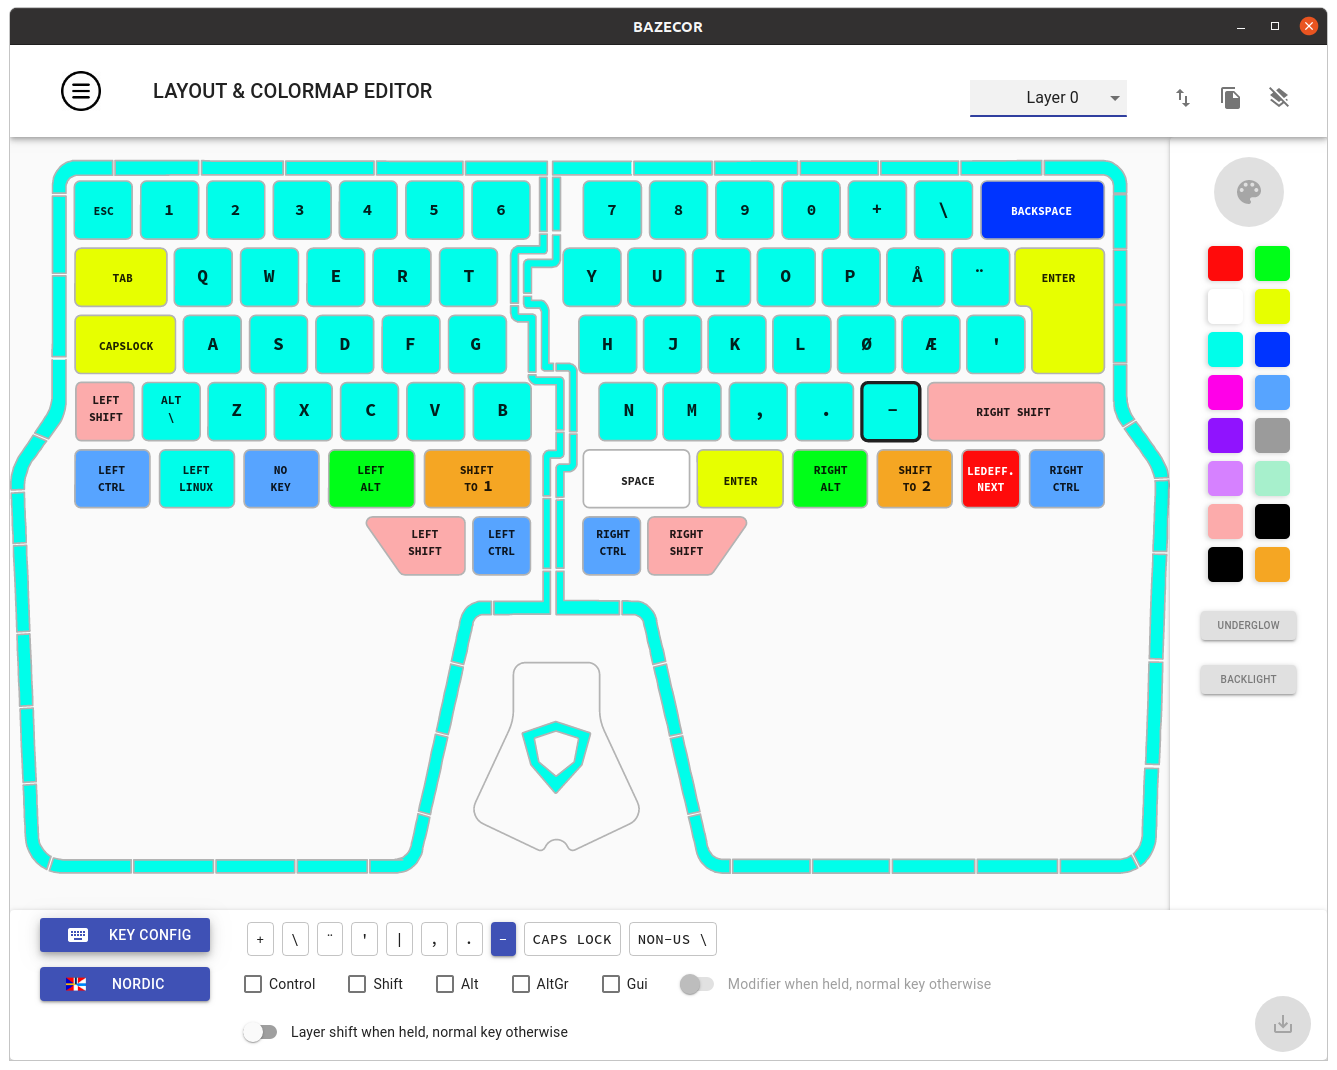
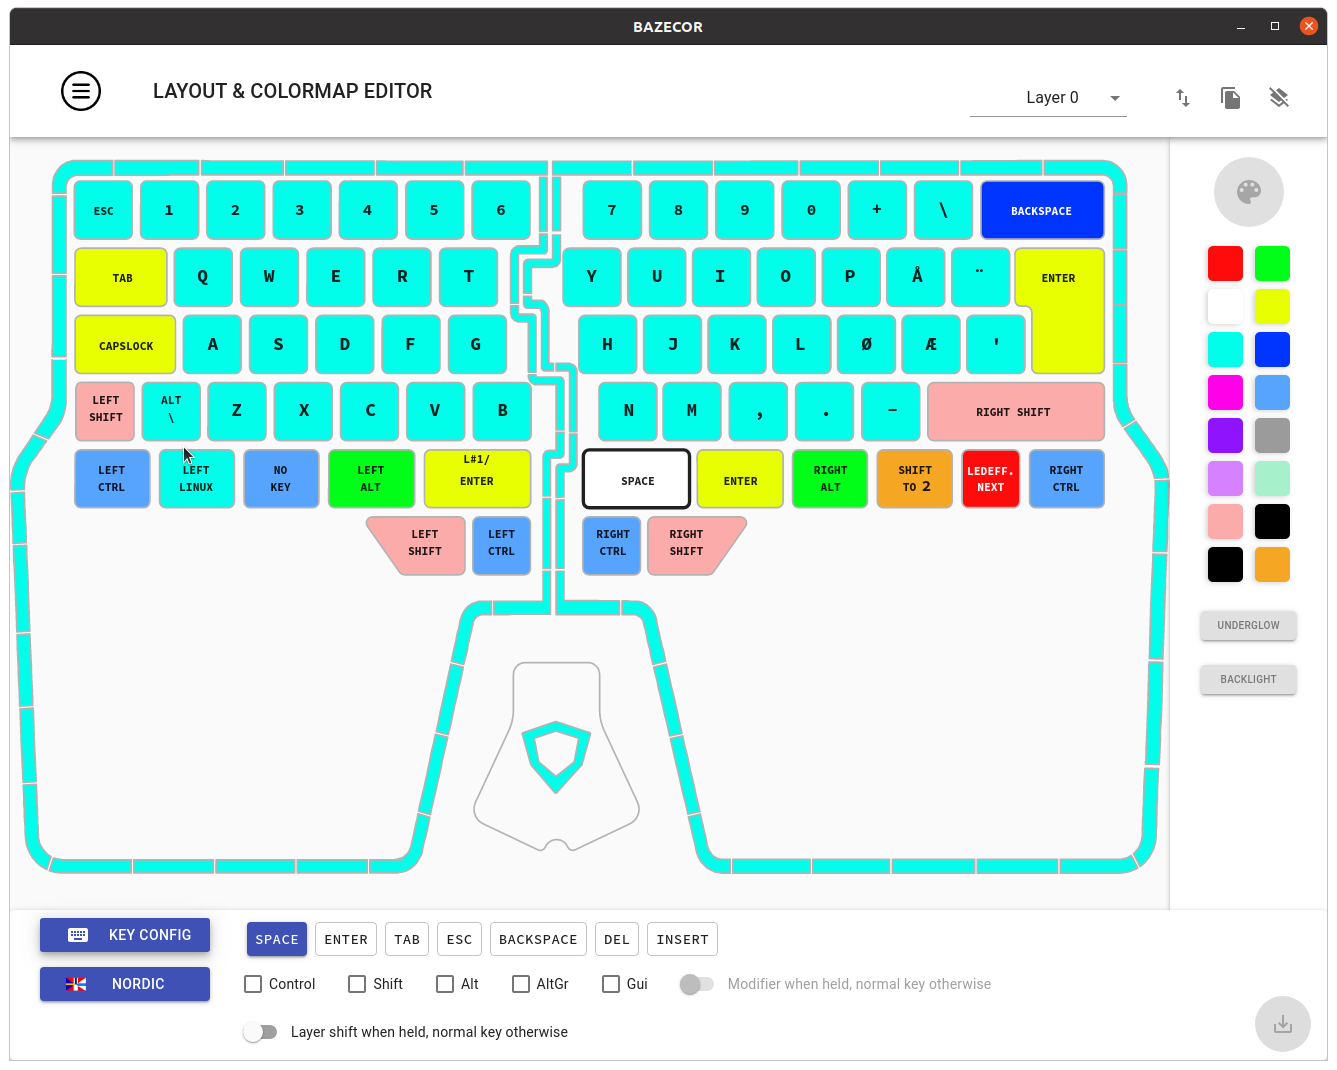
Some additional Dygma Raise tuning reported

diff --git a/_posts/2020-09-28-dygma-raise-reflections-part-1.md b/_posts/2020-09-28-dygma-raise-reflections-part-1.md
@@ -41,7 +41,7 @@ Before understanding how I configured Dygma Raise I need to tell the reader a bi
 
 A screenshot regarding some of these configurations (`.Xkeymap` file):
 
-![My Dygma Raise](/img/2020-09-28-dygma-raise-keyboard-reflections-part-1_img_2.jpg)
+![My Linux .Xkeymap](/img/2020-09-28-dygma-raise-keyboard-reflections-part-1_img_2.jpg)
 
 ### Configuring Dygma Raise: The Bazecor Software
 
@@ -53,7 +53,7 @@ Every key is programmable. And there are ten layers and in all of those layers, 
 
 One very neat feature is also that there are eight "thumb keys" instead of one big spacebar. You really should give some thought on how to use these thumb keys since they can be really powerful. Let's start with the thumb keys. Below you can see my Layer 0 configuration in the Bazecor application:
 
-![My Dygma Raise](/img/2020-09-28-dygma-raise-keyboard-reflections-part-1_img_3.jpg)
+![Layer 0](/img/2020-09-28-dygma-raise-keyboard-reflections-part-1_img_3.jpg)
 
 I have played classical guitar some 20 years and now that I look at that picture I realize something regarding the hotkeys I tend to use. Like playing the guitar one has different functions for the left hand and for the right hand: left hand fingers press the strings in various positions on the guitar neck, and right hand fingers pick the strings. The same way I tend to use my keyboard: I press some combination of the `Shift`, `Ctrl`, `Alt` and `CapsLock` (remember: my `CapsLock` is the `Alt-Gr` key) with my left hand fingers, and then I click some key on the right side of the keyboard with my right hand fingers. Therefore I configured my new Dygma Raise so that I have all relevant modifiers in the lefthand side four thumb keys: `Alt`, `Shift`, `Ctrl` and `Shift-to-1`. Some examples of how I use these combinations may shed some light to the importance of these new left hand side thumb keys. I program [Clojure](https://clojure.org/) and I use either [IntelliJ IDEA](https://www.jetbrains.com/idea/) with excellent [Cursive](https://cursive-ide.com/) plugin or [Emacs](https://www.gnu.org/software/emacs/) editor with [Cider](https://github.com/clojure-emacs/cider) plugin (mostly IDEA/Cursive, though). In Clojure you program quite a lot with [REPL](https://clojure.org/guides/repl/introduction) and to make the Clojure programming workflow fluent one needs good hotkeys e.g. to reload stuff into the REPL, send namespace to the REPL for evaluation, evaluate certain S-expression in the Clojure code or edit the code, e.g. kill S-expression, [slurp/barf](http://danmidwood.com/content/2014/11/21/animated-paredit.html), etc. I'm not going to explain the meaning of those manipulations but let's just say that I do a lot of them when programming Clojure and there needs to be fast hotkeys for them. Some examples of those hotkeys:
 
@@ -68,7 +68,7 @@ And so on, and so on... I could write a whole series of blog posts regarding the
 
 Ok, let's move on. What's that Orange `Shift to 1` thumb button in the left upper row? It's the beauty of Dygma Raise: You can shift to the next layer when pressing this key (you can also configure some key so that you move to the next layer instead of activating it only when this key is pressed, but it is better for my personal workflow to have it as "shift"). Let's see what´s there in the `Layer 1`:
 
-![My Dygma Raise](/img/2020-09-28-dygma-raise-keyboard-reflections-part-1_img_4.jpg)
+![Layer 1](/img/2020-09-28-dygma-raise-keyboard-reflections-part-1_img_4.jpg)
 
 In this layer I have some Media controllers on the left side just to make playing Spotify easier and also to control volume in meetings: I.e. I press the `Shift to 1` with my left hand side thumb and then some media buttons also with my left hand side. This is a bit awkward since I have to use the same hand but as a guitarist, I have pretty flexible fingers and I don't use these buttons that often. But then the actual beef: **Why do I have the numbers on the right hand side in two rows?**. The actual reason is not the numbers per se but what's behind the numbers. The most important row in this layer is the resting position row `J`, `K`, `L`, `Ö` => `8`, `9`, `0`, `+`. The reason is that I have mapped the various parentheses behind these numbers, for example: `{` => `Alt-Gr`+`7`, and because `Alt-Gr` is `Caps-Lock` it is `Caps-Lock`+`7`, and because in `Layer 0` I can shift to the next `Layer 1` with the left hand side button key, and the number `7` is not in the upper row in this layer but in the resting row, it is very easy to get `{` => `Shift to 1`+`CapsLock` with my left hand fingers (thumb and little finger, I use this very often so it is very easy for me) + `H` (layer 0) (which is `7` in layer 1). Therefore:
 
@@ -122,16 +122,17 @@ I have now used my brand new Dygma Raise about a week. I have forced myself to u
 
 **Some tweaking with layer 0.** I did some modifications to layer 0 regarding the thumb buttons. The new key mapping is below.
 
-![My Dygma Raise](/img/2020-09-28-dygma-raise-keyboard-reflections-part-1_img_5.jpg)
+![New layer 0](/img/2020-09-28-dygma-raise-keyboard-reflections-part-1_img_5.jpg)
 
 Changes:
 
 - I changed the right lower thumb buttons as in the left side. I realized that it is easier to remember and use them this way. Now  `Shift` and `Ctrl` keys are mirror images just like in their standard positions.
 - I moved `Enter` key next to `Space` key. It is a bit awkward to twist the right hand thumb to this key but I sacrifice a bit in ergonomics to have the `Shift` and `Ctrl` keys in more logical positions.
+- Then a bit later I realized that I can utilize the double action key functionality: I configured `Enter` in the left side but with double action: when hit once it is `Enter` but when hold down it is `Shift to layer 1` as previous.
 
 **Some tweaking with layer 1.** I did some modifications to layer 1. The new key mapping is below.
 
-![My Dygma Raise](/img/2020-09-28-dygma-raise-keyboard-reflections-part-1_img_6.jpg)
+![New layer 1](/img/2020-09-28-dygma-raise-keyboard-reflections-part-1_img_6.jpg)
 
 Changes:
 
@@ -141,9 +142,14 @@ Changes:
 - I moved `\` key next to `tab`. `\` key provides the `` ` `` character that I need in Slack to provide code snippets without formatting.
 - The weird two dots key provides the precious tilde key (`~`) that a programmer needs in terminal when referring to the user home directory. This key is in standard position really far a way in second upper row near `Enter` key.
 - `'` key actually provides the asterisk (`*`) when used with `Shift`. The asterisk key is used in terminal to represent any number of characters - also used quite often. This key is in standard position next to the `Enter` key and therefore a bit far away.
-- I added `Enter` also here in the second layer in the lower right thumb. After some experimentation I realized that it is actually easier to hit `Shift to Layer 1` and `Enter` in this new position than the `Enter` key in layer 0 (I hit Enter quite often and I began to feel uncomfortable to twist my thumb to the new `Enter` key next to `Space` key).
+- I added `Enter` also here in the second layer in the lower right thumb. After some experimentation I realized that it is actually easier to hit `Shift to Layer 1` and `Enter` in this new position than the `Enter` key in layer 0 (I hit Enter quite often and I began to feel uncomfortable to twist my thumb to the new `Enter` key next to `Space` key). This is actually not  important anymore when I realized to utilize the double action key (see previous layer). Well, maybe sometimes when adding a  lot of numbers it  might be easier to have the `Enter` key also in this layer.
 - I also added `CapsLock` and `Left Shift` keys to this layer since I'm planning to start learning to hit these keys as modifiers for the various parentheses (possibly, let's see).
 - I also added the mouse buttons in this layer since I  realized that sometimes it is nice to paste something that I painted earlier using the mouse.
+
+
+**Cheat sheet.** I created a cheat sheet for myself to learn the new key mappings with Dygma Raise faster. On the left side note are the thumb buttons, on the right side note are layer 0 key mappings.
+
+![Cheat sheet](/img/2020-09-28-dygma-raise-keyboard-reflections-part-1_img_7.jpg)
 
 
 **Ordered new switches.** I experimented with the test switches Dygma kindly added to the box. First I thought that I would order `Kailh Speed Silver` switches (Linear, 40 cN, Pretravel 1.1 mm, Travel 3.5 mm) since I feel that the `Cherry MX Brown` (Tactile, 55 cN, Pretravel 2 mm, Travel 4 mm) switches that I ordered with my Dygma are a bit too heavy and `Kailh Speed Silver` switches were really easy to press. I also tried the `Kailh Speed Copper` (tactile, 50 cN, Pretravel 1,1 mm, Travel 3,5 mm) - it was a nice switch also, a bit more consistent feeling that with `Cherry MX Brown`. But then I surprised myself. I tried `Kailh Speed Bronze` (clicky, 60 cN, Pretravel 1.1 mm, Travel 3.5 mm) - and I immediately fell in love with the feeling and the "click" which is really sharp and provides a really nice haptic and auditory feedback regarding a key press without being too heavy. I ordered `Kailh Speed Bronze` switches and also `Kailh Low Profile Choc White` switches for the lower thumb buttons.
